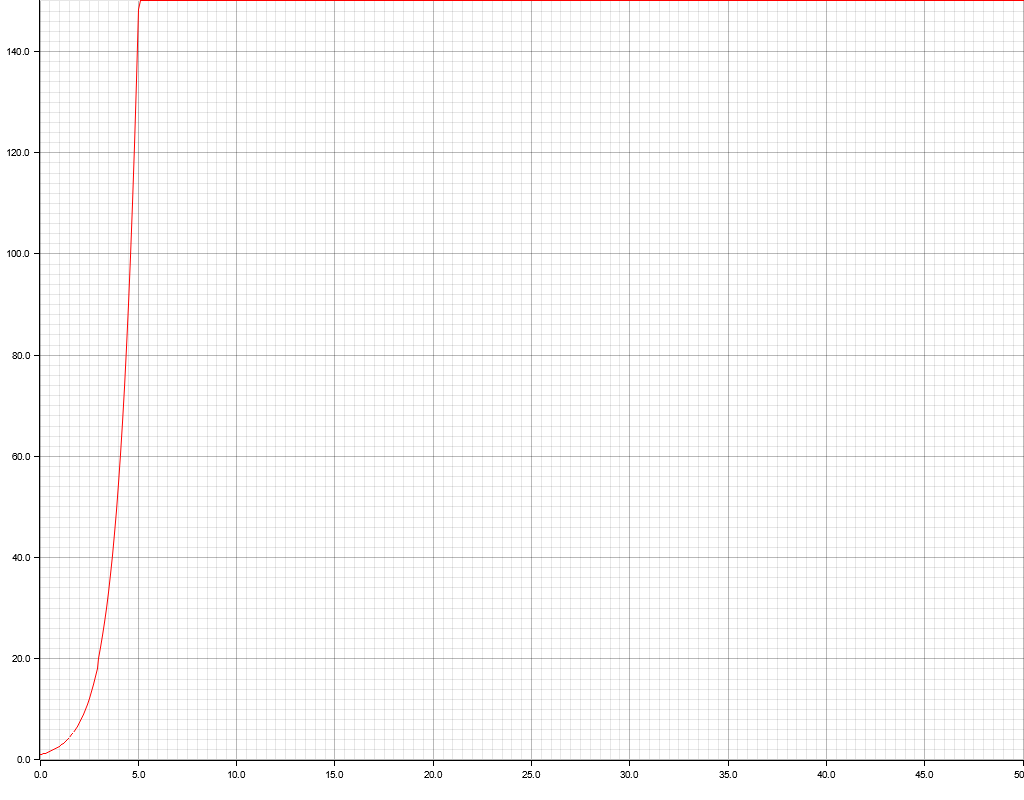
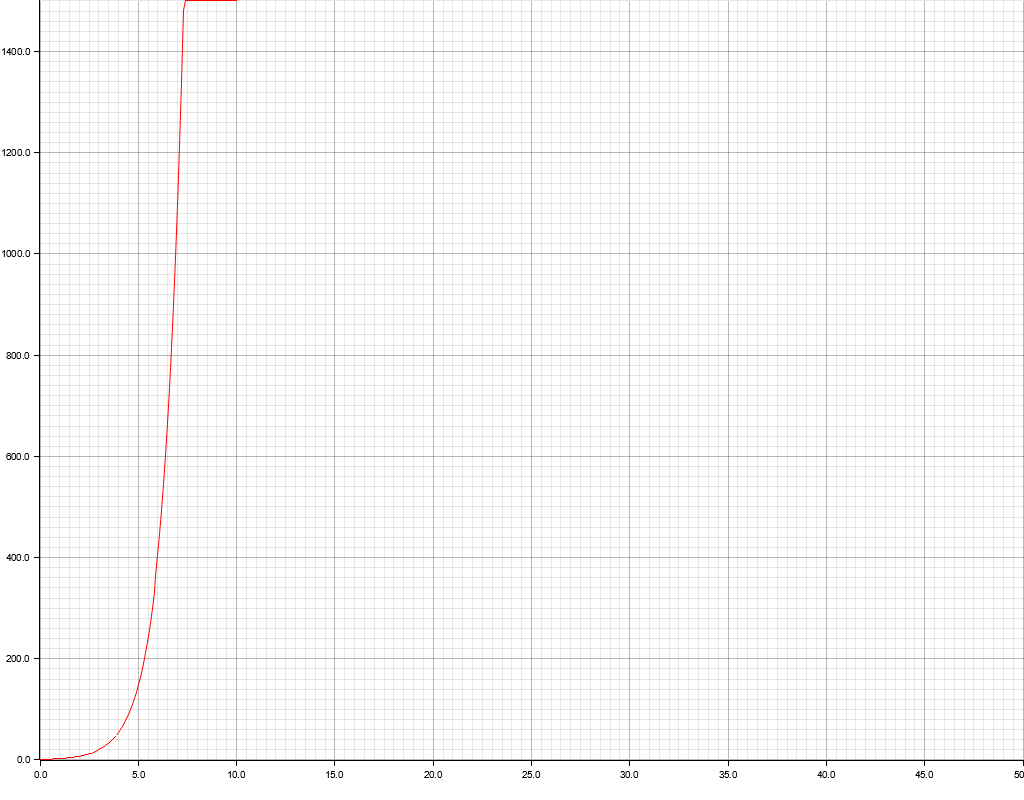
bugs fixed

diff --git a/src/main.rs b/src/main.rs
@@ -11,17 +11,18 @@ fn main() -> Result<(), Box<dyn std::error::Error>> {
     let mut chart = ChartBuilder::on(&root)
         .x_label_area_size(40)
         .y_label_area_size(40)
-        .build_cartesian_2d(0f64..50f64, 0f64..150f64)?;
+        .build_cartesian_2d(0f64..50f64, 0f64..1500f64)?;
 
     chart
         .configure_mesh()
         .draw()?;
 
-    let x: Vec<f64> = (0..=1000).map(|i| i as f64 * 0.1).collect();
+    let x: Vec<f64> = (0..=100).map(|i| i as f64 * 0.1).collect();
     let y: Vec<f64> = x.iter().map(|&i| int_identidad(i)).collect();
 
     for (i, (&x_val, &y_val)) in x.iter().zip(y.iter()).enumerate() {
-        println!("Punto {}: ({}, {}), diferencia con la integral = {}", i, x_val, y_val,(E.powf(i as f64) - y_val));
+        println!("x: {}, f(x) {}, x - f(x) {}",x_val, y_val, (x_val - y_val))
+        //println!("Punto {}: ({}, {}), diferencia con la integral = {}", i, x_val, y_val,(int_identidad(i as f64) - y_val));
     }
     chart.draw_series(LineSeries::new(
         x.iter().zip(y.iter()).map(|(&x, &y)| (x, y)),
